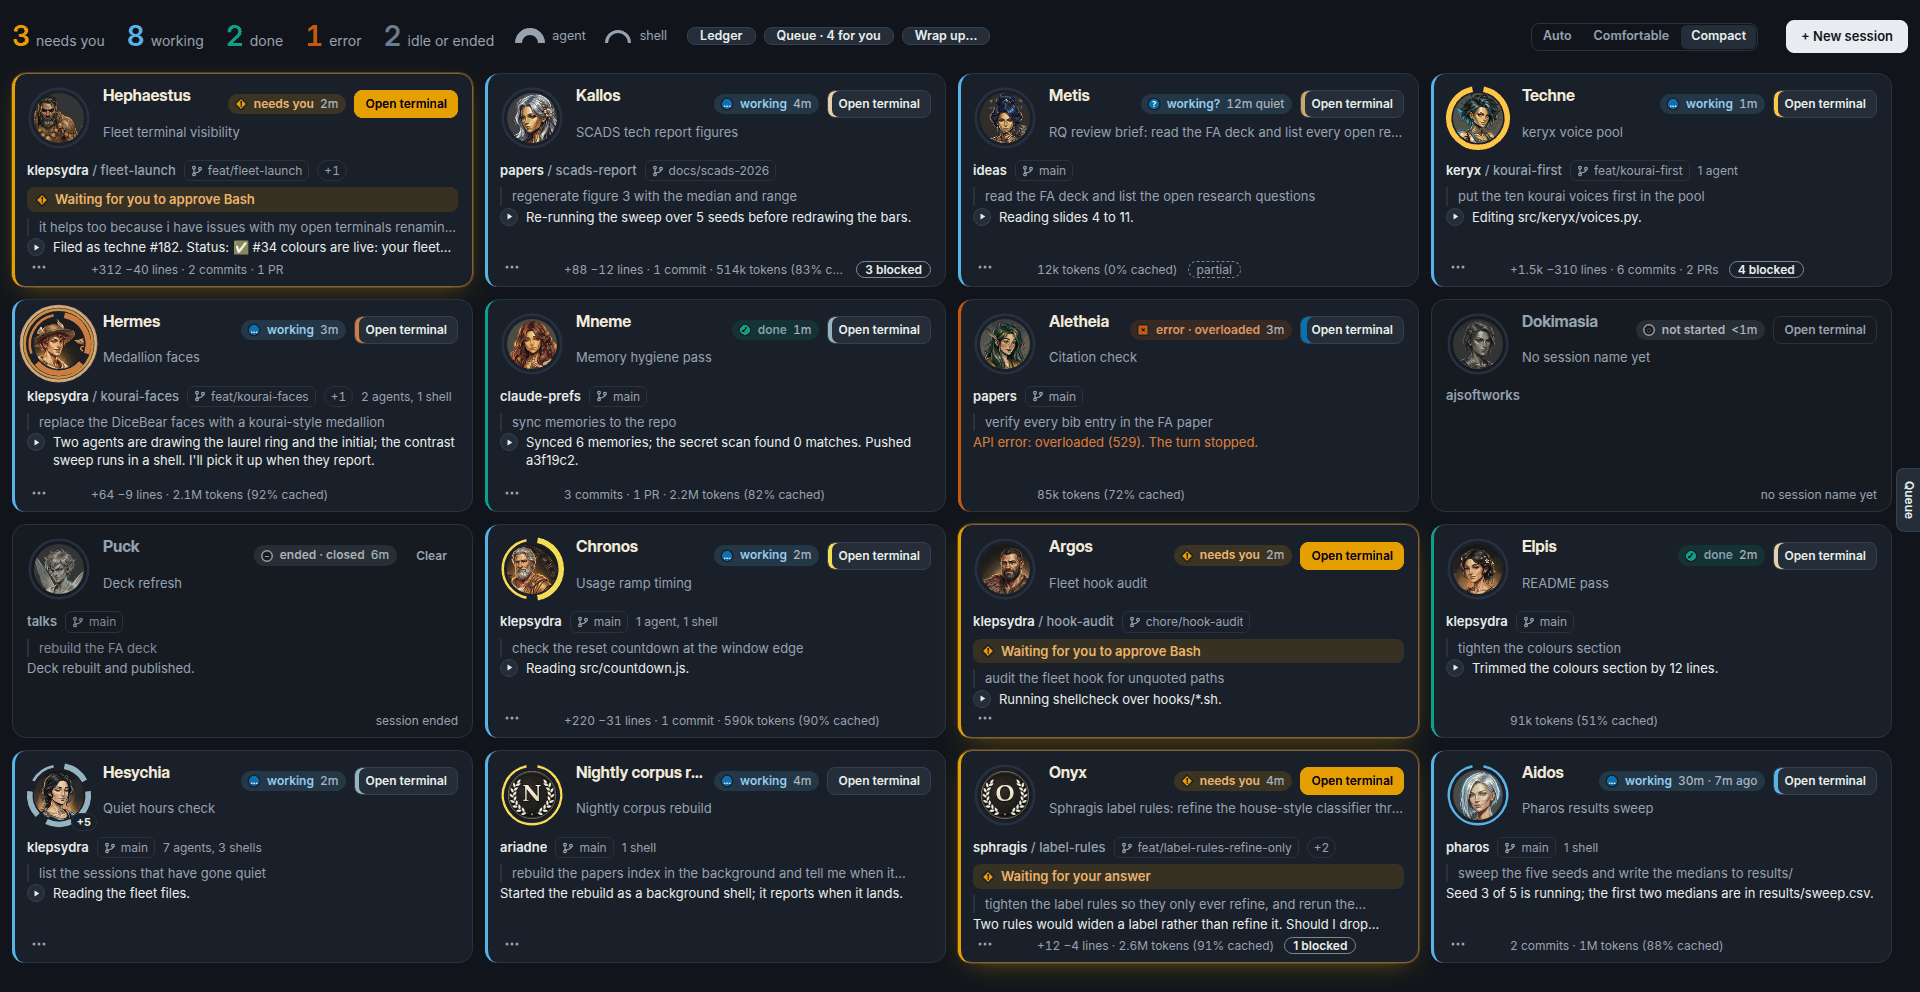
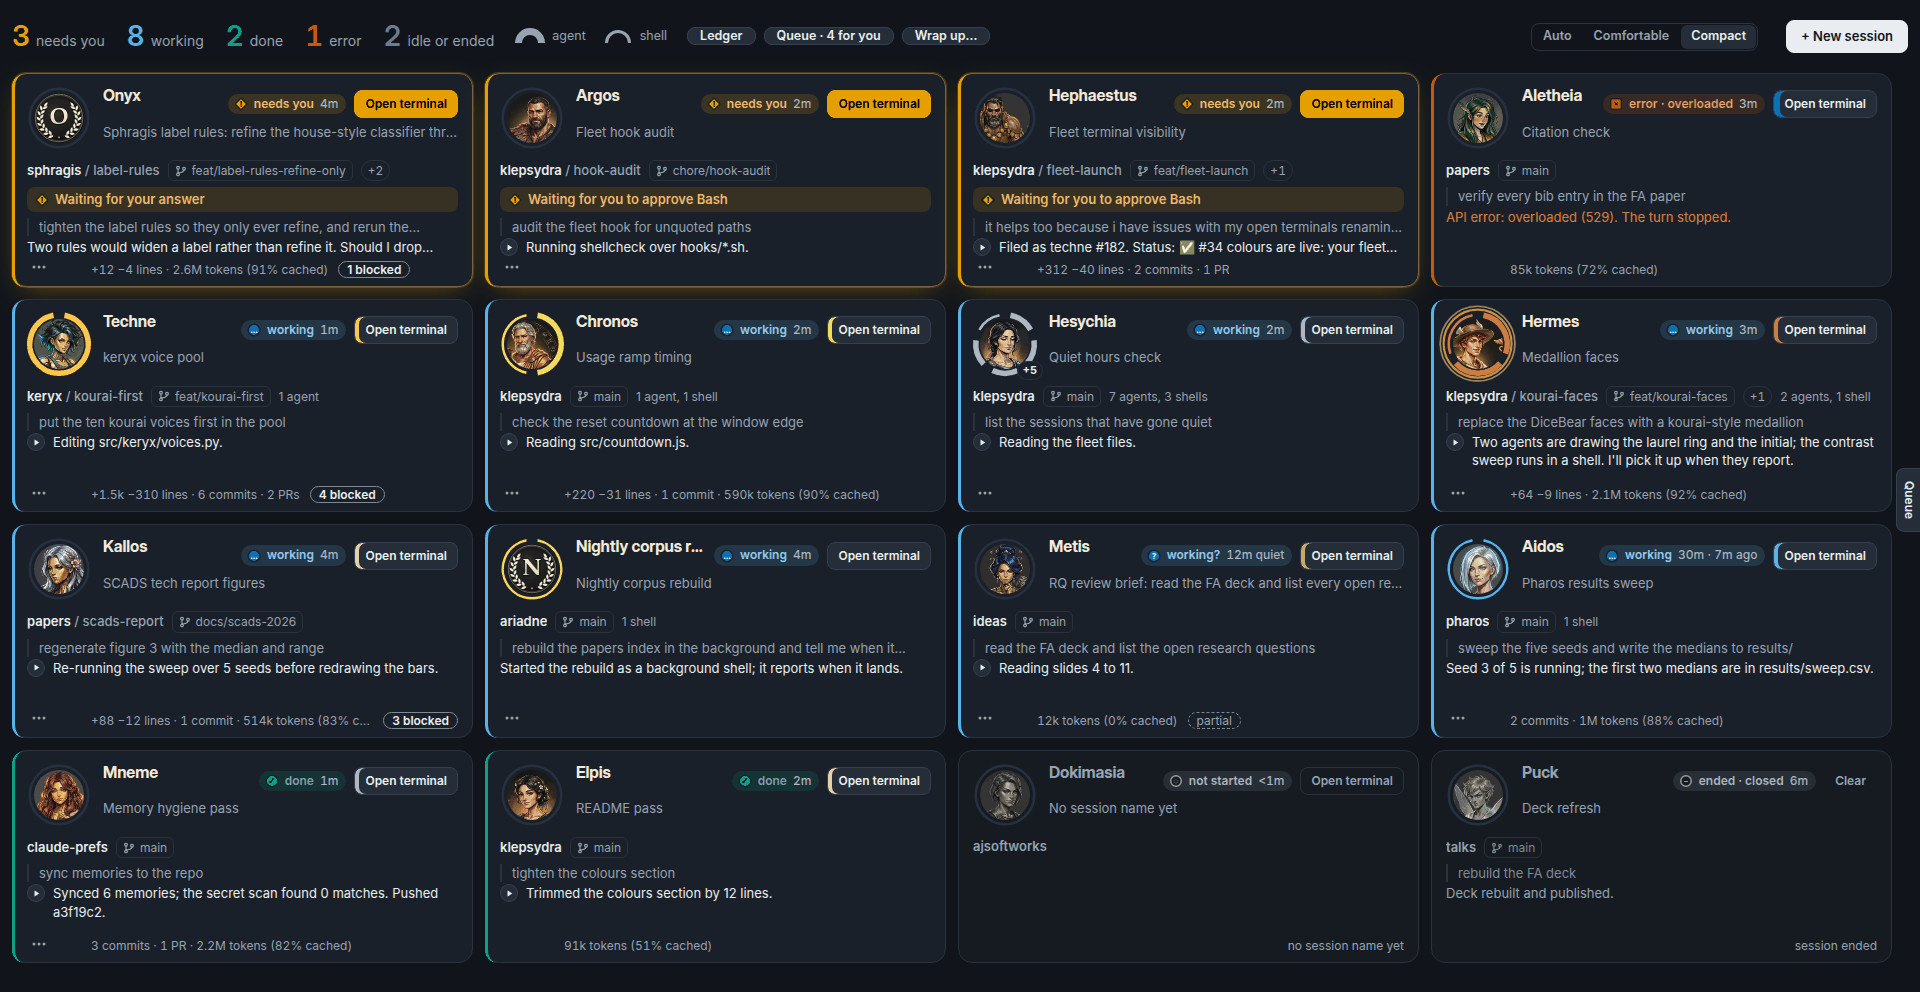
README shots: sessions in the app's order; the phone capture fails loudly and always stops its server

diff --git a/scripts/readme-shots.py b/scripts/readme-shots.py
@@ -9,18 +9,19 @@ prints each one's size. Run it after a change to what a screenshot shows:
       python -I scripts/readme-shots.py
 
 Needs Playwright's Chromium (`uvx playwright install chromium`), or a Chrome
-at $KLEPSYDRA_CHROME.
+at $KLEPSYDRA_CHROME, and cargo, which builds the phone wall's server.
 """
 
 import functools
 import http.server
+import io
 import json
 import os
 import pathlib
+import re
 import sys
-import threading
-import io
 import tempfile
+import threading
 import time
 
 import oxipng
@@ -31,6 +32,7 @@ ROOT = pathlib.Path(__file__).resolve().parent.parent
 sys.path.insert(0, str(ROOT / "scripts"))
 import test_phone_browser as phone  # noqa: E402  the phone suite's server and demo data
 OUT = ROOT / "assets"
+DEMO = ROOT / "scripts/fixtures/fleet-demo.json"
 SETTLE_MS = 600  # past the wall's resize settle, arrivals and a frame
 
 
@@ -41,7 +43,7 @@ class Quiet(http.server.SimpleHTTPRequestHandler):
 
 def accounts():
     """Two accounts as the bar shows them: a personal session and week, and a
-    team session that reset a while ago."""
+    team session with two and a half hours to go."""
     now = int(time.time())
 
     def w(pct, reset_in):
@@ -56,12 +58,33 @@ def accounts():
     })
 
 
+# The app's order (the fleet crate's view.rs `snapshot`): needs you first, the
+# longest wait leading; then error, working, done, new, silent and ended, each
+# newest first. The wall shows a snapshot as it comes, and the sample is unsorted.
+STATUS_ORDER = ["needs_you", "error", "working", "done", "new", "silent", "ended"]
+
+
+def app_order(fleet):
+    def key(s):
+        at = s["status_at"] if s["status"] == "needs_you" else -s["status_at"]
+        return (STATUS_ORDER.index(s["status"]), at, s["session_id"])
+
+    fleet["sessions"].sort(key=key)
+    return fleet
+
+
 def json_route(body):
     return lambda r: r.fulfill(status=200, content_type="application/json", body=body)
 
 
 def wall(browser, port, width, height, query, density=None):
+    """The wall at `width` x `height` on ?QUERY, the sample's first ?demo=N
+    sessions (the page's slice) in the app's order."""
     page = browser.new_page(viewport={"width": width, "height": height})
+    fleet = json.loads(DEMO.read_text())
+    n = int(m.group(1)) if (m := re.search(r"\bdemo=(\d+)", query)) else len(fleet["sessions"])
+    fleet["sessions"][:n] = app_order({"sessions": fleet["sessions"][:n]})["sessions"]
+    page.route("**/fleet-demo.json", json_route(json.dumps(fleet)))
     page.goto(f"http://127.0.0.1:{port}/src/wall.html?{query}")
     page.wait_for_function("document.getElementById('wall').children.length > 0")
     # The app shows + New session and Wrap up… in the bar; a browser hides them.
@@ -119,7 +142,7 @@ def main():
     server = http.server.ThreadingHTTPServer(("127.0.0.1", 0), handler)
     port = server.server_address[1]
     threading.Thread(target=server.serve_forever, daemon=True).start()
-    fleet = (ROOT / "scripts/fixtures/fleet-demo.json").read_text()
+    fleet = json.dumps(app_order(json.loads(DEMO.read_text())))
     chrome = os.environ.get("KLEPSYDRA_CHROME")
     with sync_playwright() as p:
         browser = p.chromium.launch(executable_path=chrome) if chrome else p.chromium.launch()
@@ -174,20 +197,23 @@ def main():
             snapshot = pathlib.Path(tmp) / "fleet.json"
             phone.snapshot_file(snapshot)
             proc, addr = phone.start_server(snapshot)
-            # After the build, so the countdowns read as written.
-            phone.demo_usage(pathlib.Path(tmp) / "klepsydra")
             try:
+                # After the build, so the countdowns read as written.
+                phone.demo_usage(pathlib.Path(tmp) / "klepsydra")
                 ctx = browser.new_context(viewport={"width": 390, "height": 844}, device_scale_factor=2,
                                           is_mobile=True, has_touch=True)
                 page = ctx.new_page()
                 page.goto(f"http://{addr}/")
-                phone.wait_until(page, "document.getElementById('wall').children.length > 0", 15)
-                phone.wait_until(page, "document.querySelectorAll('.limits .limit-rows > li').length > 0", 15)
+                for ready in ("document.getElementById('wall').children.length > 0",
+                              "document.querySelectorAll('.limits .limit-rows > li').length > 0"):
+                    if not phone.wait_until(page, ready, 15):
+                        raise SystemExit(f"the phone wall never showed: {ready}")
                 page.wait_for_timeout(SETTLE_MS)
                 save(page.screenshot(), "phone-wall")
                 ctx.close()
             finally:
                 proc.kill()
+                proc.wait()
 
         browser.close()
     server.shutdown()

diff --git a/README.md b/README.md
@@ -616,7 +616,7 @@ boundary leaves the wall as it is. The choice is saved as `wall_density` in
 `prefs.json`.
 
 <p align="center">
-  <img src="assets/wall-compact.png" alt="The wall in Compact at 1920 px: sixteen smaller cards in four rows, each with its round portrait, status, place, and last exchange cut to one line" width="900">
+  <img src="assets/wall-compact.png" alt="The wall in Compact at 1920 px: sixteen smaller cards in four rows, each with its round portrait, status, place, and last exchange cut short" width="900">
 </p>
 
 ### Split mode
